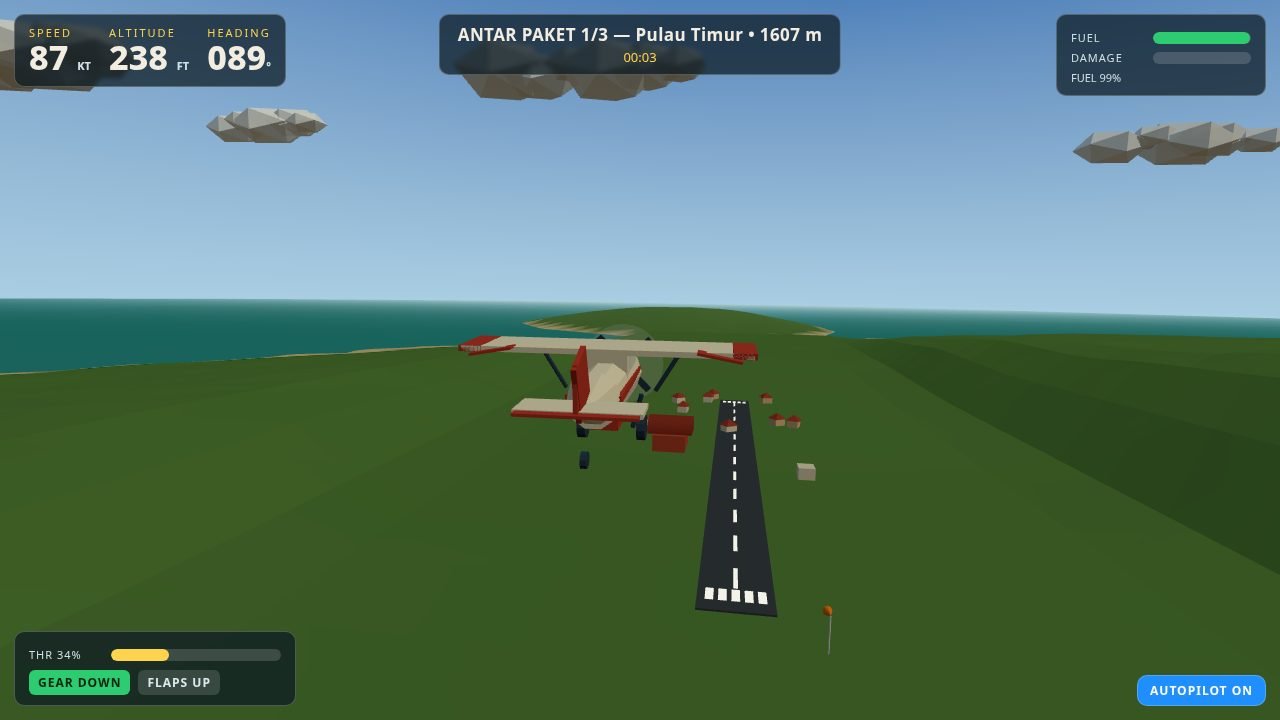
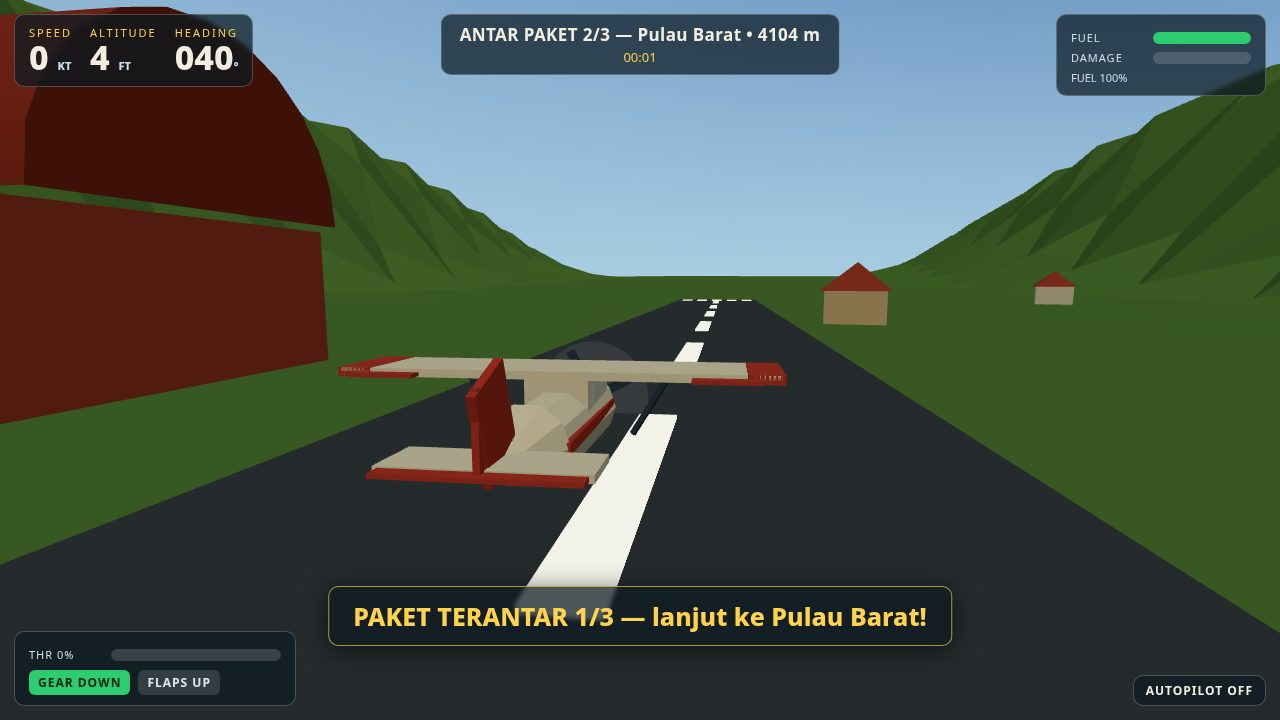
POS LANGIT — cover proves leg-1 delivery; Storm Landing 5 s fuel grace
- shots.js (?shot=cover): park the K-7 on Pulau Timur's strip after leg 1
  lands, so the first mission tick fires the real 'leg-done' event.
- main.js + index.html: the leg-complete banner is now big (25px gold)
  and persists until the next HUD message, instead of fading after 4.2 s.
- fuel-damage.js: no fuel burn in Storm Landing while mission.timer < 5,
  so the player can size up the crosswind before the gauge moves.

diff --git a/game/src/shots.js b/game/src/shots.js
@@ -5,7 +5,7 @@
 // draws a fake screen, moves a mesh by hand, or mocks the game: the
 // screenshots are the game itself, flown by its own code.
 //
-//   ?shot=cover    Mail Run cruise, chase cam, runway ahead
+//   ?shot=cover    Mail Run leg 1 delivered at Pulau Timur, banner + next leg
 //   ?shot=rings    Ring Rally, metres from ring 3, next ring visible
 //   ?shot=landing  Storm Landing final, gear down, flaps 2
 //   ?shot=cockpit  Mail Run cruise, cockpit cam, gauges live
@@ -31,20 +31,24 @@ export function applyShot(game, shot) {
   const stripC = stripById('barat');
   if (shot === 'cover') {
     game.startMissionById('mail');
-    // Final cruise 450 m north of Merpati Field, heading south down the
-    // flattened approach corridor: runway ahead, sea on the horizon.
-    const rad = (stripA.headingDeg * Math.PI) / 180;
-    state.pos.set(stripA.x - Math.cos(rad) * 450, stripA.elev + 75, stripA.z - Math.sin(rad) * 450);
-    state.heading = rad; // fly toward the strip
+    // Just delivered leg 1: parked on Pulau Timur's strip, gear down,
+    // throttle idle. The first mission tick fires 'leg-done' for real, so
+    // the big leg-complete banner shows and the objective advances to
+    // leg 2 — the cover proves a delivery, not just a flight.
+    const stripT = stripById('timur');
+    const rad = (stripT.headingDeg * Math.PI) / 180;
+    state.pos.set(stripT.x, stripT.elev + 1.15, stripT.z);
+    state.heading = rad; // lined up on the runway
     state.pitch = 0;
-    state.roll = -0.15;
-    state.speed = 46;
-    state.throttle = 0.62;
-    state.onGround = false;
-    state.airborne = true;
+    state.roll = 0;
+    state.speed = 0;
+    state.throttle = 0;
+    state.onGround = true;
+    state.airborne = false;
+    state.gearDown = true;
     game.setCameraMode('chase');
-    game.setAutopilot(true);
-    return { heading: state.heading, altitude: state.pos.y, speed: 46 };
+    game.setAutopilot(false);
+    return null;
   }
   if (shot === 'rings') {
     game.startMissionById('rings');

diff --git a/game/src/main.js b/game/src/main.js
@@ -123,13 +123,16 @@ function showEnd(title, detail, score) {
   end.classList.remove('hidden');
 }
 
-function setMessage(text) {
+function setMessage(text, big) {
   const m = document.getElementById('hud-msg');
   if (m) {
     m.textContent = text;
     m.classList.remove('hidden');
+    m.classList.toggle('big', !!big);
     clearTimeout(setMessage.timer);
-    setMessage.timer = setTimeout(() => m.classList.add('hidden'), 4200);
+    // A leg-complete banner is the payoff proof: big, and it stays until
+    // the next HUD message replaces it instead of fading after 4.2 s.
+    if (!big) setMessage.timer = setTimeout(() => m.classList.add('hidden'), 4200);
   }
 }
 
@@ -275,7 +278,7 @@ function frame(now) {
         showEnd('MISI GAGAL', mission.failReason, `DAMAGE 100% • ${mission.timerText}`);
       }
     }
-    const fuelEvent = mission.status === 'flying' ? burnFuel(state, dt) : null;
+    const fuelEvent = mission.status === 'flying' ? burnFuel(state, dt, mission) : null;
     if (fuelEvent === 'fuel-empty') setMessage(eventMessage('fuel-empty', state));
     if (state.stalled && game.time - stallBeepAt > 0.9) {
       playStallWarning(audio);
@@ -289,7 +292,7 @@ function frame(now) {
     }
     if (missionEvent === 'leg-done') {
       playCheckpoint(audio);
-      setMessage(`PAKET TERANTAR ${mission.legsDone}/3 — lanjut ke ${mission.targetStrip.name}!`);
+      setMessage(`PAKET TERANTAR ${mission.legsDone}/3 — lanjut ke ${mission.targetStrip.name}!`, true);
     }
     if (missionEvent === 'won') {
       playMissionComplete(audio);

diff --git a/game/index.html b/game/index.html
@@ -50,6 +50,8 @@
   @keyframes blink { 50% { opacity: 0.25; } }
   #hud-msg { position: absolute; bottom: 74px; left: 50%; transform: translateX(-50%);
     padding: 8px 18px; font-size: 16px; font-weight: 600; white-space: nowrap; }
+  #hud-msg.big { font-size: 25px; font-weight: 800; color: #ffd34d; padding: 12px 24px;
+    border-color: rgba(255, 211, 77, 0.65); box-shadow: 0 4px 24px rgba(0, 0, 0, 0.55); }
   #hud-score { position: absolute; bottom: 14px; left: 50%; transform: translateX(-50%);
     font-size: 13px; color: #ffd34d; font-weight: 700; }
   /* --- Overlays --- */

diff --git a/game/src/fuel-damage.js b/game/src/fuel-damage.js
@@ -6,8 +6,11 @@
 import { stepFuel } from './flight-model.js';
 
 // Burn fuel for one step. Returns 'fuel-empty' once, the moment the tank
-// runs dry and the engine quits.
-export function burnFuel(state, dt) {
+// runs dry and the engine quits. Storm Landing opens with a 5 s grace
+// period: no burn while the mission clock is under 5 s, so the player can
+// size up the crosswind before the gauge starts moving.
+export function burnFuel(state, dt, mission) {
+  if (mission && mission.id === 'storm' && mission.timer < 5) return null;
   return stepFuel(state, dt);
 }
 
